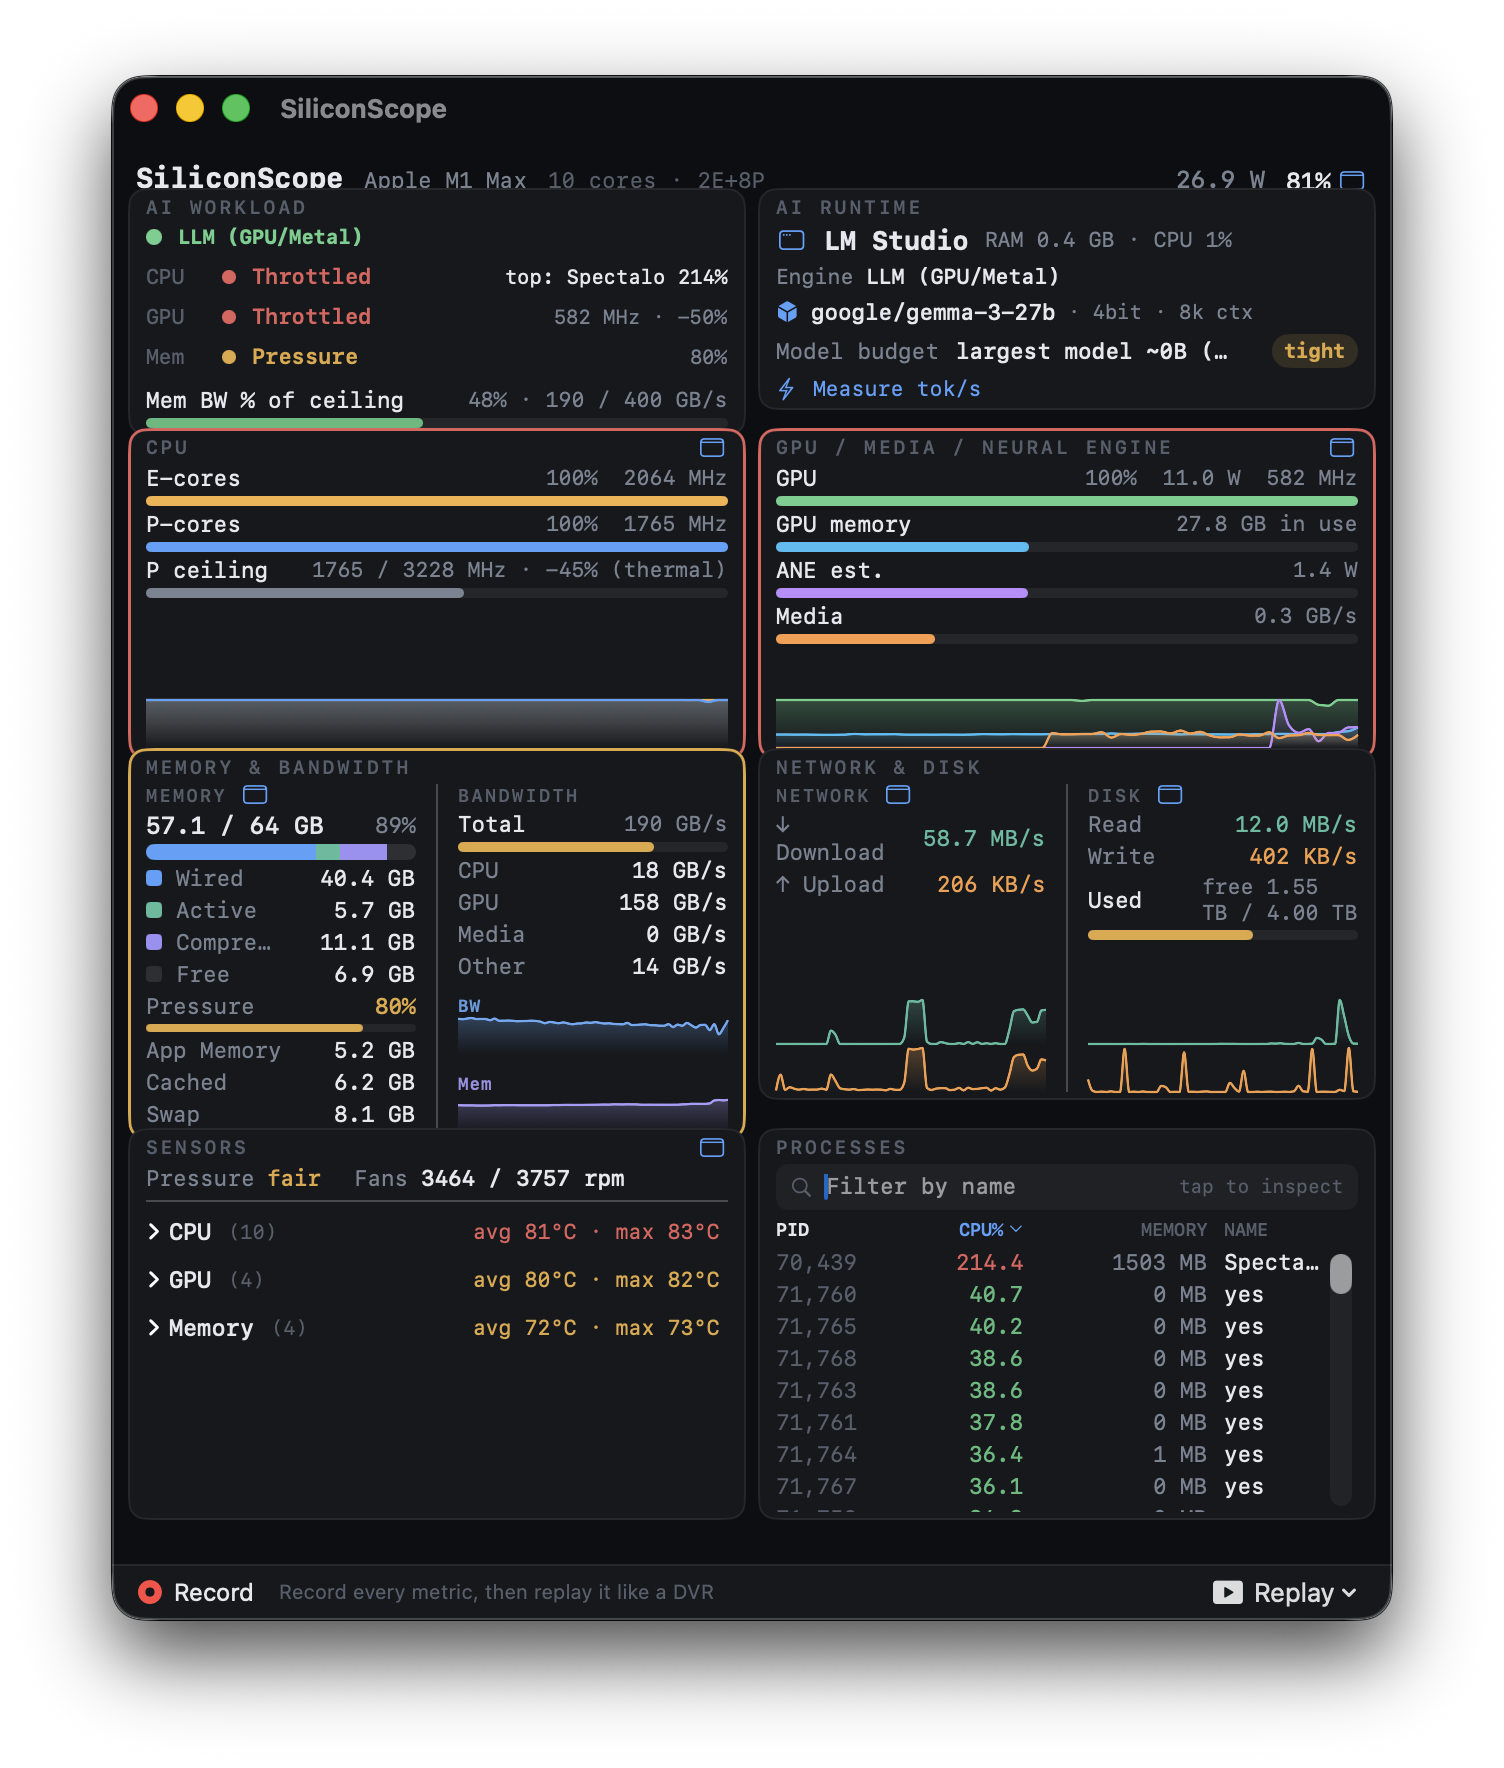
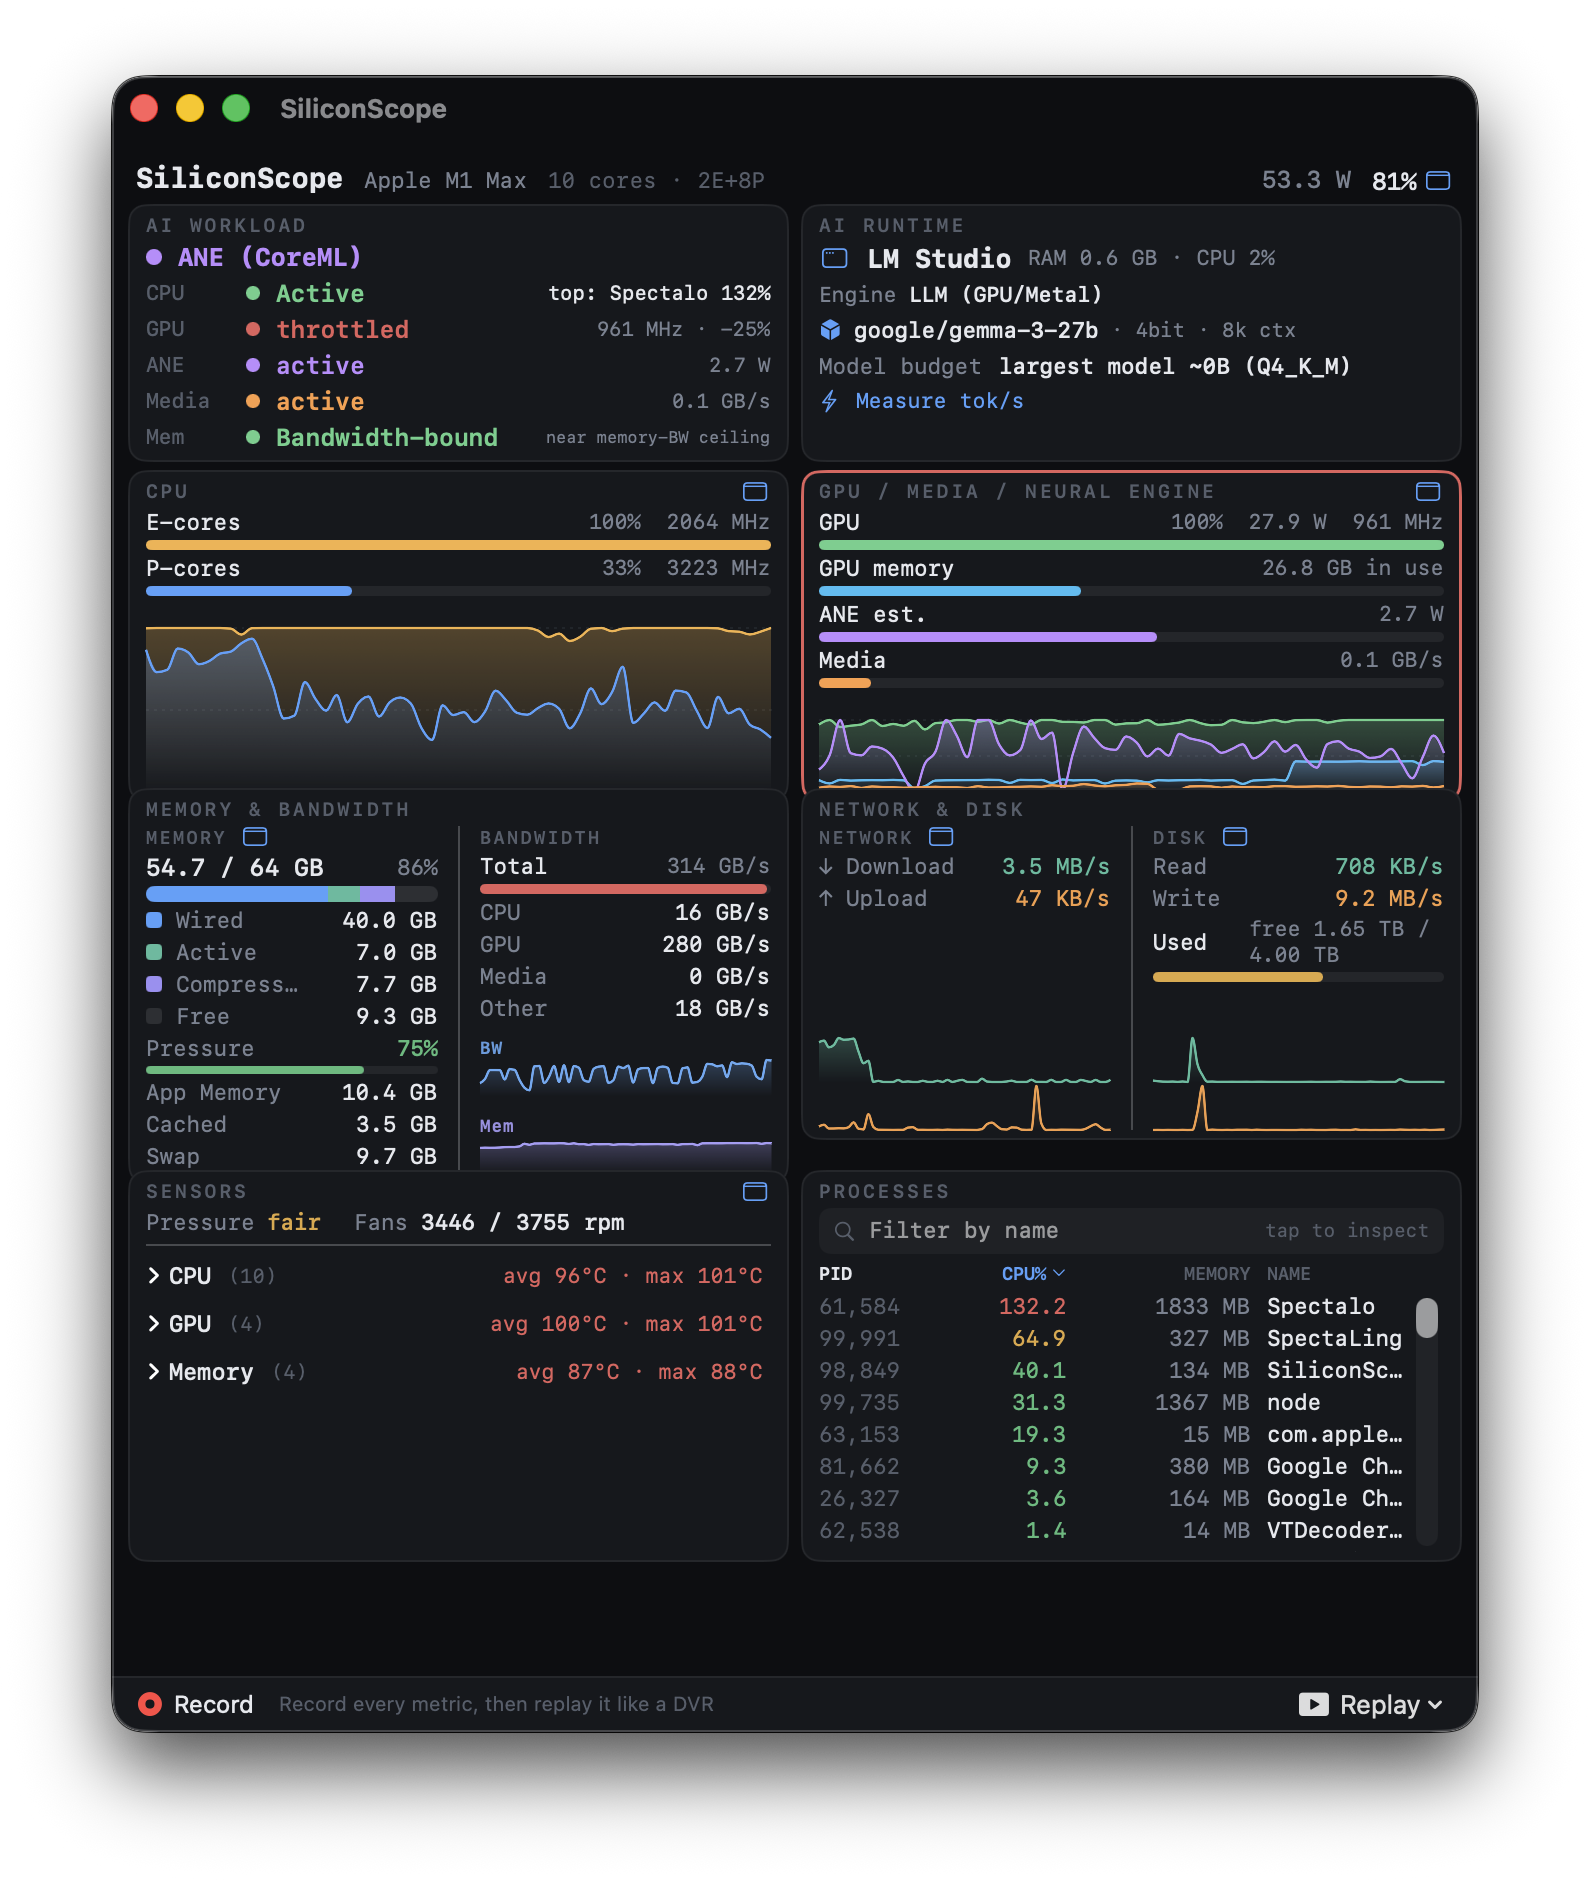
docs(changelog): v3.1.2 — fill charts + dotted grid + per-engine accelerator rows
Refresh the dashboard hero: 27B LLM (GPU/Metal) + Spectalo running together — the new
per-engine breakdown (GPU throttled / ANE active / Media active / Mem bandwidth-bound) with
the filled charts + dotted grid, all at once.

Changed region(s): [[0.0625, 0.0311, 0.9375, 0.9333]]

diff --git a/CHANGELOG.md b/CHANGELOG.md
@@ -1,5 +1,17 @@
 # Changelog
 
+## v3.1.2 — 2026-07-04
+
+**Clearer charts + a per-engine accelerator breakdown.**
+
+- **Timeline charts fill the card and get a dotted grid.** The CPU and GPU trend charts now use the
+  card's full height (no more short chart floating above a gap) and sit on a faint dotted grid, so
+  the level reads clearly even at 100%. Thanks **@Borda** ([#24](https://github.com/kennss/SiliconScope/issues/24)).
+- **GPU / ANE / Media are now separate engine rows.** The AI Workload card's accelerator line used to
+  collapse to a single state — so a Neural-Engine workload showed "ANE active" under a "GPU" label.
+  Each engine now has its own honest row, so you see exactly where a workload lands: CoreML ASR →
+  **ANE active** while the GPU stays idle, a local LLM → **GPU active**, video → **Media**.
+
 ## v3.1.1 — 2026-07-03
 
 - **Fixed: the header could be overlapped by the cards below it.** On some macOS versions (reported